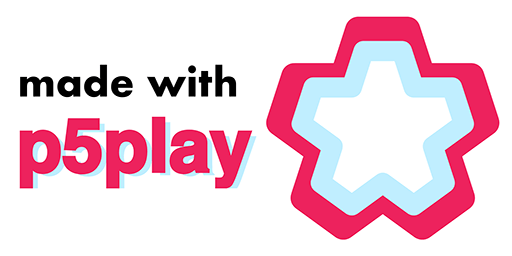
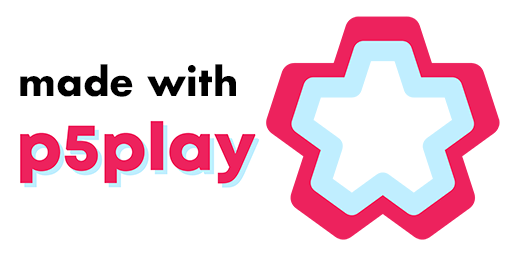
1.1.504

diff --git a/learn/style.css b/learn/style.css
@@ -109,7 +109,7 @@ a {
 }
 
 a:hover {
-	color: var(--pink);
+	color: var(--pink0);
 	text-decoration: underline;
 }
 
@@ -132,7 +132,7 @@ a.navLink {
 	font-weight: bold;
 	user-select: none;
 	color: var(--blue1);
-	/* 	-webkit-text-stroke: 1.6px var(--pink); */
+	/* 	-webkit-text-stroke: 1.6px var(--pink0); */
 	/* 	text-shadow: 3px 1.8px 0px var(--blue1); */
 	text-decoration: none;
 	transition: 100ms;
@@ -148,17 +148,18 @@ a.navLink {
 
 #topNav a.active,
 #topNav a:hover {
-	color: var(--pink);
+	color: var(--pink0);
 	text-shadow: 2px 2px 0px var(--blue0);
 }
 
 #topNav #logoLink:hover {
 	color: transparent;
-	-webkit-text-stroke: 1.6px var(--pink);
+	-webkit-text-stroke: 1.6px var(--pink0);
 }
 
 #topNav #logoLink.active {
 	font-size: 48px;
+	text-shadow: 3px 3px 0px var(--blue0);
 }
 
 #topNav a.active {
@@ -190,7 +191,7 @@ a.navLink {
 }
 
 #topNav img:not(.logo):hover {
-	box-shadow: 2px 2px 10px var(--pink);
+	box-shadow: 2px 2px 10px var(--pink0);
 }
 
 #topNav>hr {
@@ -236,15 +237,15 @@ a.btn,
 #toc a:hover,
 #refs>div:not(:first-child) a:not(:first-child).active,
 #refs div:not(:first-child) a:not(:first-child):hover {
-	color: var(--pink);
-	box-shadow: var(--pink) 3px 3px 0px;
+	color: var(--pink0);
+	box-shadow: var(--pink0) 3px 3px 0px;
 }
 
 a.btn:hover,
 #toc a:hover,
 #refs div:not(:first-child) a:not(:first-child):hover {
 	scale: 1.05;
-	color: var(--pink);
+	color: var(--pink0);
 	text-decoration: none;
 }
 
@@ -260,7 +261,7 @@ a.btn:hover,
 
 .superLink {
 	font-size: 32px;
-	color: var(--pink);
+	color: var(--pink0);
 }
 
 p {
@@ -333,13 +334,13 @@ code {
 	width: 100%;
 	margin-top: 2%;
 	margin-bottom: 2%;
-	border: var(--pink) 2px solid;
+	border: var(--pink0) 2px solid;
 	box-shadow: 4px 4px 0px var(--blue0);
 }
 
 .page>.break {
 	width: 100%;
-	border: var(--pink) 2px solid;
+	border: var(--pink0) 2px solid;
 	margin-top: 0;
 	margin-bottom: 0;
 	padding: 0;
